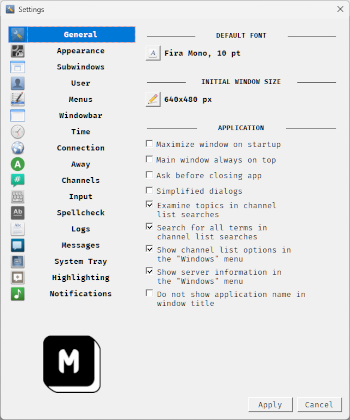
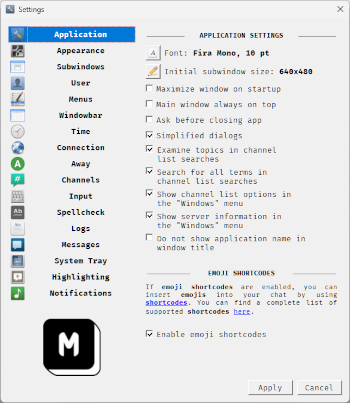
Latest build

diff --git a/README.html b/README.html
@@ -1,4 +1,4 @@
-<h1>MERK 0.043.000</h1>
+<h1>MERK 0.043.001</h1>
 
 <p><a href="https://github.com/nutjob-laboratories/merk">Official source code repository</a></p>
 <h1 id="table-of-contents">Table of contents</h1>
@@ -14,7 +14,7 @@
 <li><a href="#does-merk-need-any-help">Does MERK need any help?</a></li>
 </ul>
 <h1 id="summary">Summary</h1>
-<p><strong>MERK</strong> is a graphical <a href="https://www.gnu.org/licenses/gpl-3.0.en.html">open source</a> <a href="https://en.wikipedia.org/wiki/Internet_Relay_Chat">Internet relay chat</a> client. The current development version is <strong>0.043.000</strong>. It uses a <a href="https://en.wikipedia.org/wiki/Multiple-document_interface">multiple-document interface</a>, much like the popular Windows IRC client <a href="https://www.mirc.com/">mIRC</a>.  <strong>MERK</strong> is written in Python 3, using the <a href="https://pypi.org/project/PyQt5/">PyQt5</a> and <a href="https://twistedmatrix.com/trac/">Twisted</a> libraries, and runs on both Windows and Linux. <strong>MERK</strong> is updated frequently with new features and bugfixes.</p>
+<p><strong>MERK</strong> is a graphical <a href="https://www.gnu.org/licenses/gpl-3.0.en.html">open source</a> <a href="https://en.wikipedia.org/wiki/Internet_Relay_Chat">Internet relay chat</a> client. The current development version is <strong>0.043.001</strong>. It uses a <a href="https://en.wikipedia.org/wiki/Multiple-document_interface">multiple-document interface</a>, much like the popular Windows IRC client <a href="https://www.mirc.com/">mIRC</a>.  <strong>MERK</strong> is written in Python 3, using the <a href="https://pypi.org/project/PyQt5/">PyQt5</a> and <a href="https://twistedmatrix.com/trac/">Twisted</a> libraries, and runs on both Windows and Linux. <strong>MERK</strong> is updated frequently with new features and bugfixes.</p>
 <p><strong>MERK</strong> is still in development, but it works, and can be used for most IRC activities.</p>
 <p>Join me on the official <strong>MERK</strong> IRC channel, <strong>#merk</strong> on the Libera Chat network! Connect to  Libera in the client as one of the built-in server suggestions, or at <strong>irc.libera.chat</strong>, port <strong>6667</strong> (you can also connect via SSL on port <strong>6697</strong>). Honestly, I work a lot, so I&#39;m almost always idle, but I pop in and chat a few times a day!</p>
 <h1 id="making-merk-portable-on-windows">Making MERK Portable on Windows</h1>

diff --git a/merk/resources/README.html b/merk/resources/README.html
@@ -1,4 +1,4 @@
-<h1>MERK 0.042.076</h1>
+<h1>MERK 0.043.001</h1>
 
 <p><a href="https://github.com/nutjob-laboratories/merk">Official source code repository</a></p>
 <h1 id="table-of-contents">Table of contents</h1>
@@ -14,7 +14,7 @@
 <li><a href="#does-merk-need-any-help">Does MERK need any help?</a></li>
 </ul>
 <h1 id="summary">Summary</h1>
-<p><strong>MERK</strong> is a graphical <a href="https://www.gnu.org/licenses/gpl-3.0.en.html">open source</a> <a href="https://en.wikipedia.org/wiki/Internet_Relay_Chat">Internet relay chat</a> client. The current development version is <strong>0.042.076</strong>. It uses a <a href="https://en.wikipedia.org/wiki/Multiple-document_interface">multiple-document interface</a>, much like the popular Windows IRC client <a href="https://www.mirc.com/">mIRC</a>.  <strong>MERK</strong> is written in Python 3, using the <a href="https://pypi.org/project/PyQt5/">PyQt5</a> and <a href="https://twistedmatrix.com/trac/">Twisted</a> libraries, and runs on both Windows and Linux. <strong>MERK</strong> is updated frequently with new features and bugfixes.</p>
+<p><strong>MERK</strong> is a graphical <a href="https://www.gnu.org/licenses/gpl-3.0.en.html">open source</a> <a href="https://en.wikipedia.org/wiki/Internet_Relay_Chat">Internet relay chat</a> client. The current development version is <strong>0.043.001</strong>. It uses a <a href="https://en.wikipedia.org/wiki/Multiple-document_interface">multiple-document interface</a>, much like the popular Windows IRC client <a href="https://www.mirc.com/">mIRC</a>.  <strong>MERK</strong> is written in Python 3, using the <a href="https://pypi.org/project/PyQt5/">PyQt5</a> and <a href="https://twistedmatrix.com/trac/">Twisted</a> libraries, and runs on both Windows and Linux. <strong>MERK</strong> is updated frequently with new features and bugfixes.</p>
 <p><strong>MERK</strong> is still in development, but it works, and can be used for most IRC activities.</p>
 <p>Join me on the official <strong>MERK</strong> IRC channel, <strong>#merk</strong> on the Libera Chat network! Connect to  Libera in the client as one of the built-in server suggestions, or at <strong>irc.libera.chat</strong>, port <strong>6667</strong> (you can also connect via SSL on port <strong>6697</strong>). Honestly, I work a lot, so I&#39;m almost always idle, but I pop in and chat a few times a day!</p>
 <h1 id="making-merk-portable-on-windows">Making MERK Portable on Windows</h1>

diff --git a/merk/dialog/settings.py b/merk/dialog/settings.py
@@ -141,7 +141,7 @@ class Dialog(QDialog):
 			font_name = pfs[0]
 			font_size = pfs[1]
 
-			self.fontLabel.setText(f"<b>{font_name}, {font_size} pt</b>")
+			self.fontLabel.setText(f"Font: <b>{font_name}, {font_size} pt</b>")
 			self.changed.show()
 			self.boldApply()
 		self.selector.setFocus()
@@ -152,7 +152,7 @@ class Dialog(QDialog):
 		if x:
 			self.subWidth = x[0]
 			self.subHeight = x[1]
-			self.sizeLabel.setText(f"<b>{str(self.subWidth)}x{str(self.subHeight)} px</b>")
+			self.sizeLabel.setText(f"Initial subwindow size: <b>{str(self.subWidth)}x{str(self.subHeight)}</b>")
 			self.changed.show()
 			self.boldApply()
 		self.selector.setFocus()
@@ -904,7 +904,7 @@ class Dialog(QDialog):
 
 		entry = QListWidgetItem()
 		entry.setTextAlignment(Qt.AlignHCenter|Qt.AlignVCenter)
-		entry.setText("General")
+		entry.setText("Application")
 		entry.widget = self.applicationPage
 		entry.setIcon(QIcon(SETTINGS_ICON))
 		self.selector.addItem(entry)
@@ -919,7 +919,7 @@ class Dialog(QDialog):
 		font_name = pfs[0]
 		font_size = pfs[1]
 
-		self.fontLabel = QLabel(f"<b>{font_name}, {font_size} pt</b>",self)
+		self.fontLabel = QLabel(f"Font: <b>{font_name}, {font_size} pt</b>",self)
 
 		fontButton = QPushButton("")
 		fontButton.clicked.connect(self.menuFont)
@@ -935,7 +935,7 @@ class Dialog(QDialog):
 		fontLayout.addWidget(fontButton)
 		fontLayout.addWidget(self.fontLabel)
 
-		self.sizeLabel = QLabel(f"<b>{str(self.subWidth)}x{str(self.subHeight)} px</b>",self)
+		self.sizeLabel = QLabel(f"Initial subwindow size: <b>{str(self.subWidth)}x{str(self.subHeight)}</b>",self)
 
 		sizeButton = QPushButton("")
 		sizeButton.clicked.connect(self.setWinsize)
@@ -997,14 +997,27 @@ class Dialog(QDialog):
 
 		self.noAppNameTitle.setStyleSheet("QCheckBox { text-align: left top; } QCheckBox::indicator { subcontrol-origin: padding; subcontrol-position: left top; }")
 
+		self.enableEmojis = QCheckBox("Enable emoji shortcodes",self)
+		if config.ENABLE_EMOJI_SHORTCODES: self.enableEmojis.setChecked(True)
+		self.enableEmojis.stateChanged.connect(self.changedEmoji)
+
+		self.emojiDescription = QLabel("""
+			<small>
+			If <b>emoji shortcodes</b> are enabled, you can insert <b>emojis</b> into
+			your chat by using <a href="https://emojibase.dev/docs/shortcodes/"><b>shortcodes</b></a>.
+			You can find a complete list of supported <b>shortcodes</b> <a href="https://carpedm20.github.io/emoji/all.html?enableList=enable_list_alias">
+			here</a>.
+			</small>
+			<br>
+			""")
+		self.emojiDescription.setWordWrap(True)
+		self.emojiDescription.setAlignment(Qt.AlignJustify)
+		self.emojiDescription.setOpenExternalLinks(True)
+
 		applicationLayout = QVBoxLayout()
-		applicationLayout.addWidget(widgets.textSeparatorLabel(self,"<b>default font</b>"))
+		applicationLayout.addWidget(widgets.textSeparatorLabel(self,"<b>application settings</b>"))
 		applicationLayout.addLayout(fontLayout)
-		applicationLayout.addWidget(QLabel(' '))
-		applicationLayout.addWidget(widgets.textSeparatorLabel(self,"<b>initial window size</b>"))
 		applicationLayout.addLayout(sizeLayout)
-		applicationLayout.addWidget(QLabel(' '))
-		applicationLayout.addWidget(widgets.textSeparatorLabel(self,"<b>application</b>"))
 		applicationLayout.addWidget(self.maxOnStart)
 		applicationLayout.addWidget(self.alwaysOnTop)
 		applicationLayout.addWidget(self.askBeforeExit)
@@ -1014,6 +1027,10 @@ class Dialog(QDialog):
 		applicationLayout.addWidget(self.showChannelList)
 		applicationLayout.addWidget(self.showServerInfo)
 		applicationLayout.addWidget(self.noAppNameTitle)
+		applicationLayout.addWidget(QLabel(' '))
+		applicationLayout.addWidget(widgets.textSeparatorLabel(self,"<b>emoji shortcodes</b>"))
+		applicationLayout.addWidget(self.emojiDescription)
+		applicationLayout.addWidget(self.enableEmojis)
 		applicationLayout.addStretch()
 
 		self.applicationPage.setLayout(applicationLayout)
@@ -2030,10 +2047,6 @@ class Dialog(QDialog):
 
 		self.stack.addWidget(self.inputPage)
 
-		self.enableEmojis = QCheckBox("Enable emoji shortcodes",self)
-		if config.ENABLE_EMOJI_SHORTCODES: self.enableEmojis.setChecked(True)
-		self.enableEmojis.stateChanged.connect(self.changedEmoji)
-
 		self.historyLabel = QLabel(f"<b>{str(self.historysize)} lines</b>",self)
 
 		historyButton = QPushButton("")
@@ -2112,24 +2125,7 @@ class Dialog(QDialog):
 		autoLayout2.addWidget(self.autocompleteChans)
 		autoLayout2.addWidget(self.autocompleteEmojis)
 
-		self.emojiDescription = QLabel("""
-			<small>
-			If <b>emoji shortcodes</b> are enabled, you can insert <b>emojis</b> into
-			your chat by using <a href="https://emojibase.dev/docs/shortcodes/"><b>shortcodes</b></a>.
-			You can find a complete list of supported <b>shortcodes</b> <a href="https://carpedm20.github.io/emoji/all.html?enableList=enable_list_alias">
-			here</a>.
-			</small>
-			<br>
-			""")
-		self.emojiDescription.setWordWrap(True)
-		self.emojiDescription.setAlignment(Qt.AlignJustify)
-		self.emojiDescription.setOpenExternalLinks(True)
-
 		inputLayout = QVBoxLayout()
-		inputLayout.addWidget(widgets.textSeparatorLabel(self,"<b>emoji shortcodes</b>"))
-		inputLayout.addWidget(self.emojiDescription)
-		inputLayout.addWidget(self.enableEmojis)
-		inputLayout.addWidget(QLabel(' '))
 		inputLayout.addWidget(widgets.textSeparatorLabel(self,"<b>command history size</b>"))
 		inputLayout.addWidget(self.historyDescription)
 		inputLayout.addLayout(historyLayout)

diff --git a/merk/resources/version.py b/merk/resources/version.py
@@ -1,1 +1,1 @@
-APPLICATION_VERSION = "0.043.000"
+APPLICATION_VERSION = "0.043.001"

diff --git a/README.md b/README.md
@@ -3,7 +3,7 @@
   <b><big>Open Source IRC Client</big></b><br>
   <i>A multiple-document interface IRC client for Windows and Linux</i><br>
   <b><big>Current stable release: <a href="https://github.com/nutjob-laboratories/merk/releases/tag/0.043">MERK 0.043.000</a></big></b><br>
-  <b>Current development version: 0.043.000</b><br>
+  <b>Current development version: 0.043.001</b><br>
 </p>
 
  - [Downloads](#Downloads)
@@ -26,13 +26,13 @@ All files are packed in [ZIP archive files](https://en.wikipedia.org/wiki/ZIP_(f
 | Type| Platform  | Download  |
 | :----:    | :----:    | :----:    |
 | Current Release |  -  | [MERK 0.043.000 Release](https://github.com/nutjob-laboratories/merk/releases/tag/0.043)  |
-| Zip Archive|  Cross-platform  | [Download MERK 0.043.000 (8.77 MB)](https://www.dropbox.com/scl/fi/t8nhn5mnoagclu43fs1pn/merk-latest.zip?rlkey=ghcc5c3955ihn4fijw717di03&dl=1)  |
-| Zip Archive|  Windows | [Download MERK 0.043.000 (54.81 MB)](https://www.dropbox.com/scl/fi/fnu5uasoo2dzmzwiferhw/merk-windows-latest.zip?rlkey=9fke2qid0gna4n4zt00v0uhhy&dl=1)|
-|   Windows Installer|  Windows | [Download MERK 0.043.000 (41.90 MB)](https://www.dropbox.com/scl/fi/okp7zrjy25p1v3rox00p1/merk_setup.zip?rlkey=ey9f78jqzzp9ldjbqgwikk8uc&dl=1)|
+| Zip Archive|  Cross-platform  | [Download MERK 0.043.001 (8.77 MB)](https://www.dropbox.com/scl/fi/t8nhn5mnoagclu43fs1pn/merk-latest.zip?rlkey=ghcc5c3955ihn4fijw717di03&dl=1)  |
+| Zip Archive|  Windows | [Download MERK 0.043.001 (54.81 MB)](https://www.dropbox.com/scl/fi/fnu5uasoo2dzmzwiferhw/merk-windows-latest.zip?rlkey=9fke2qid0gna4n4zt00v0uhhy&dl=1)|
+|   Windows Installer|  Windows | [Download MERK 0.043.001 (41.90 MB)](https://www.dropbox.com/scl/fi/okp7zrjy25p1v3rox00p1/merk_setup.zip?rlkey=ey9f78jqzzp9ldjbqgwikk8uc&dl=1)|
 
 # Summary
   
-**MERK** is a graphical [open source](https://www.gnu.org/licenses/gpl-3.0.en.html) [Internet relay chat](https://en.wikipedia.org/wiki/Internet_Relay_Chat) client. The current development version is **0.043.000**. It uses a [multiple-document interface](https://en.wikipedia.org/wiki/Multiple-document_interface), much like the popular Windows IRC client [mIRC](https://www.mirc.com/).  **MERK** is written in Python 3, using the [PyQt5](https://pypi.org/project/PyQt5/) and [Twisted](https://twistedmatrix.com/trac/) libraries, and runs on both Windows and Linux. **MERK** is updated frequently with new features and bugfixes.
+**MERK** is a graphical [open source](https://www.gnu.org/licenses/gpl-3.0.en.html) [Internet relay chat](https://en.wikipedia.org/wiki/Internet_Relay_Chat) client. The current development version is **0.043.001**. It uses a [multiple-document interface](https://en.wikipedia.org/wiki/Multiple-document_interface), much like the popular Windows IRC client [mIRC](https://www.mirc.com/).  **MERK** is written in Python 3, using the [PyQt5](https://pypi.org/project/PyQt5/) and [Twisted](https://twistedmatrix.com/trac/) libraries, and runs on both Windows and Linux. **MERK** is updated frequently with new features and bugfixes.
 
 **MERK** is still in development, but it works, and can be used for most IRC activities. [The current stable release of **MERK** is version 0.043.000](https://github.com/nutjob-laboratories/merk/releases/tag/0.043).
 
